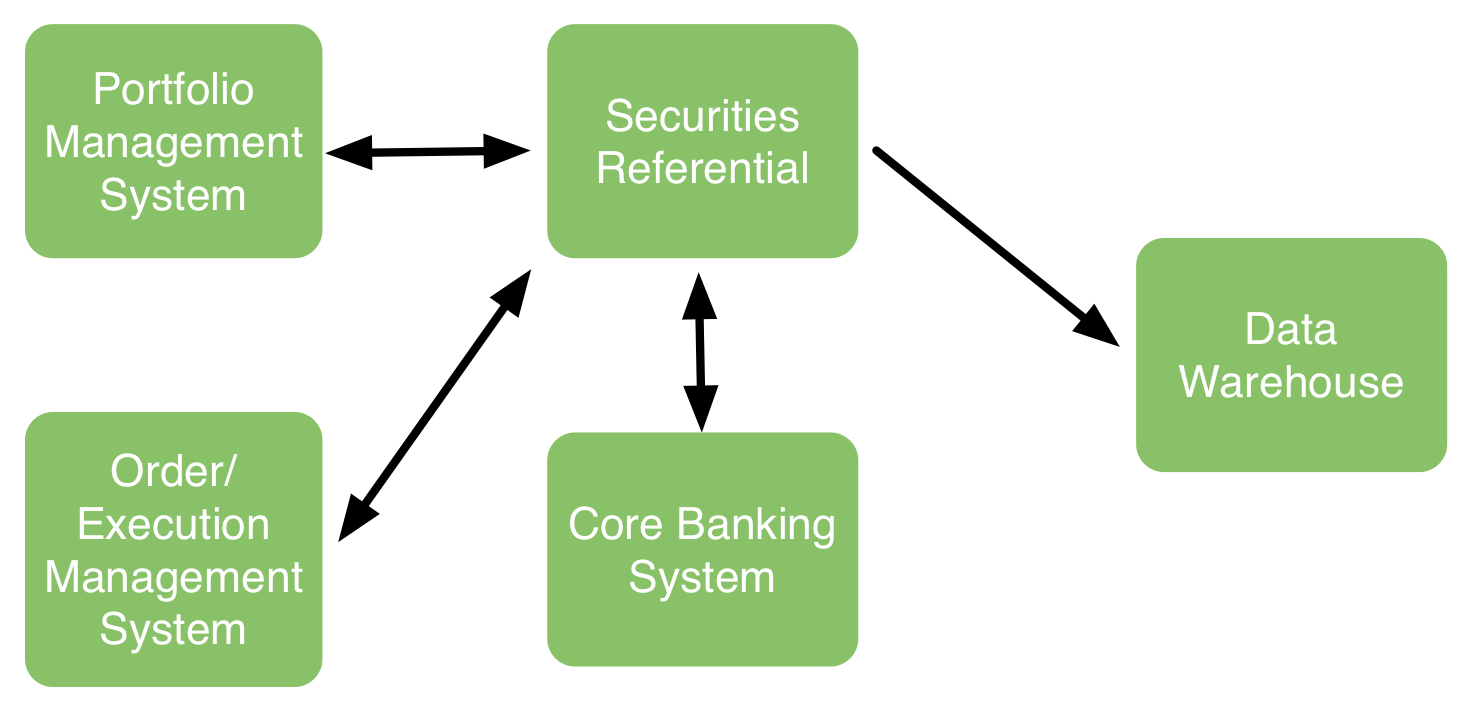
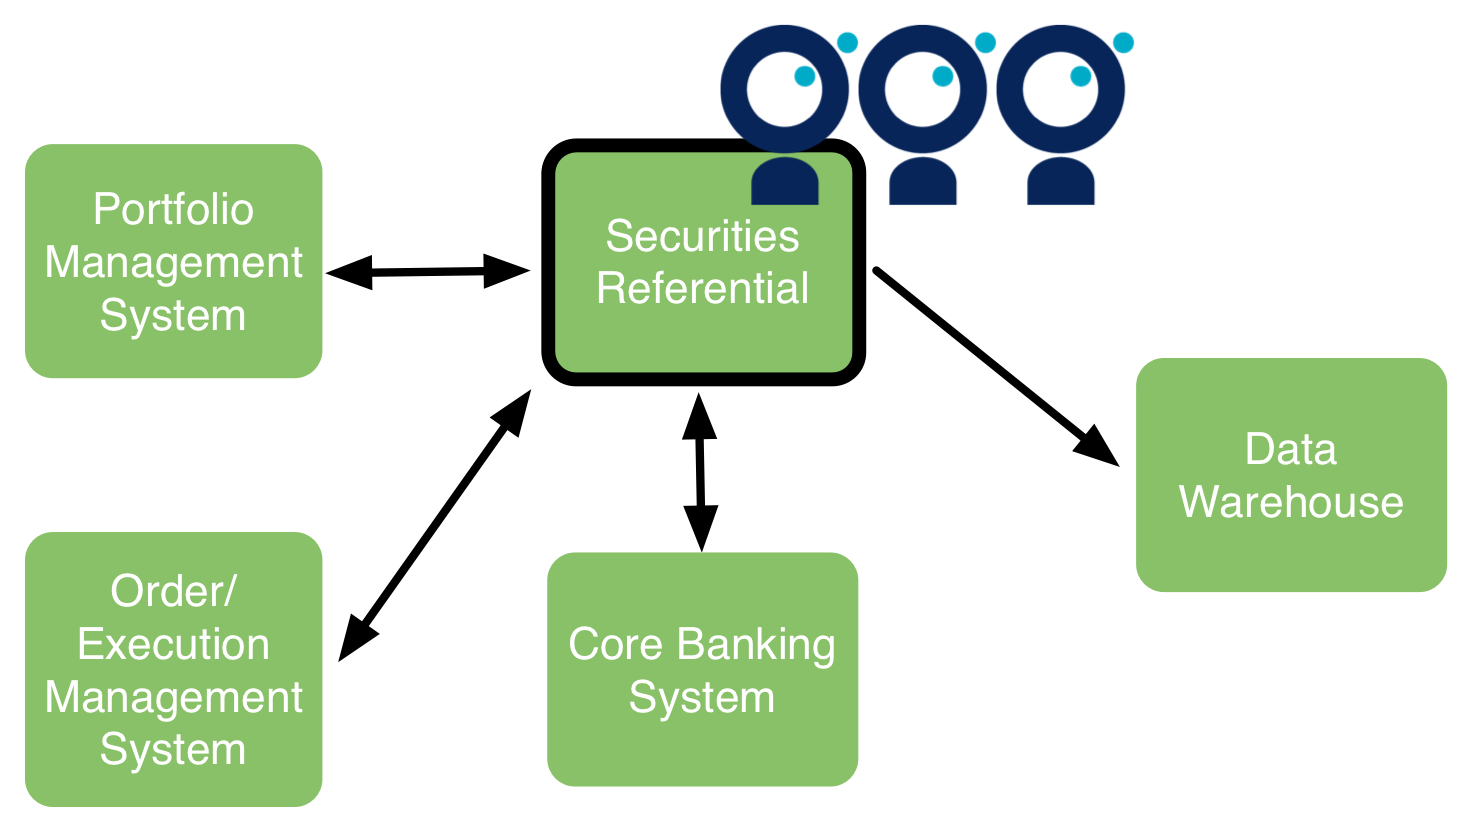
Towards v1 CPI

diff --git a/index CPI.html b/index CPI.html
@@ -31,6 +31,16 @@
 			link.href = window.location.search.match( /print-pdf/gi ) ? 'css/print/pdf.css' : 'css/print/paper.css';
 			document.getElementsByTagName( 'head' )[0].appendChild( link );
 		</script>
+		
+		<!-- override default black borders for images -->
+		<style>
+		
+			.reveal section img {
+				border: none;
+		  		box-shadow: 0 0 0 rgba(0, 0, 0, 0); 
+			}
+
+		</style>
 
 		<!--[if lt IE 9]>
 		<script src="lib/js/html5shiv.js"></script>
@@ -74,66 +84,70 @@
 				<section>
 					<h3>Il faut "cadrer" le chantier</h3>
 					<p class="fragment">Avoir une vue précise des volumes existants et cibles</p>
-					<p class="fragment">Lister problèmes existants</p>
+					<p class="fragment">Lister les problèmes existants</p>
 					<p class="fragment">Brainstormer sur les problèmes potentiels</p>
 				</section>
-				<section>
-					<div style="width: 50%; height: 100%; float: left">
-						<img src="images/fact2/vertiginous3.jpg" />
-					</div>
-						<h3>Les problèmes peuvent sembler vertigineux</h3>
-						<p class="fragment">Volume d'ordres, nombre de clients, nombre d'utilisateurs concurrents, 
-						capacité à comptabiliser avant la clôture comptable, durée de la nuit batch,
-						impact sur les temps de réponse, latence réseau etc.</p>
- 		       	</section>
 				<!-- TODO: replace paragraph instead of changing slide -->
 				<section>
 					<div style="width: 50%; height: 100%; float: left">
 						<img src="images/fact2/vertiginous3.jpg" />
 					</div>
 					<h3>Les problèmes peuvent sembler vertigineux</h3>
-					<p>Ne pas se perdre dans les détails, ne pas aborder les solutions</p>
+					<p class="fragment">Ne pas se perdre dans les détails, ne pas aborder les solutions</p>
 					<p class="fragment">Préférer l'exhaustivité à la précision</p>
 					<p class="fragment">Timeboxer !</p>
+					<aside class="notes">
+						Volume d'ordres, nombre de clients, nombre d'utilisateurs concurrents, 
+						capacité à comptabiliser avant la clôture comptable, durée de la nuit batch,
+						impact sur les temps de réponse, latence réseau etc.
+					</aside>
  		       	</section>
- 		       	<section>
-					<div style="width: 48%; height: 100%; float: left;">
-						<img src="images/fact2/application_architecture_risks.png" />
-					</div>
-					<div style="width: 48%; float: right; font-size: 0.80em;" >
-						<ol>
-							<li><strong>Capacité</strong> du HUB actuel de doubler le nombre de transactions/jour</li>
-							<li>Capacité à gérer des OST avec 15000 clients en position</li>
-							<li><strong>SLA</strong> de 5 secondes sur les actions en end-to-end</li>
-							<li>Lenteurs <strong>actuelles</strong> sur les ordres sur fonds</li>
-							<li>Ouverture de l'application à 1000 utilisateurs front-office</li>
-							<li>Doublement du <strong>nombre d'utilisateurs</strong> front-office</li>
-							<li>Impact de l'augmentation du nombre de titres sur la <strong>durée des batchs</strong></li>
-							<li><strong>Latence et temps de réponse</strong> pour les utilisateurs distants</li>							
-						</ol>
-					</div>
-				</section>
 				<section>
 					<h3>Comment y parvenir ?</h3>
 					<p class="fragment">Entretiens utilisateurs</p>
 					<p class="fragment">Entretiens IT</p>
 					<p class="fragment">Problèmes existants vs problèmes potentiels</p>
 				</section>
-				<section>
-					<h3>Et ensuite ?</h3>
-					<p class="fragment">Construire un plan</p>
-					<p class="fragment">La réponse à chaque problème pourra (devra) être complètement différente !</p>
+ 		       	<section>
+					<div style="width: 60%; float: left; margin-left:-40px; margin-top:120px; margin-right:20px;">
+						<img src="images/fact2/application_architecture_risks.png" />
+					</div>
+					<div style="width: 40%; float: right; font-size: 0.80em;" >
+						<h3>Les problèmes "usuels"</h3>
+						<ol>
+							<li><strong>Capacité</strong> en terme de nombre de transactions/jour</li>
+							<li>Augmentation de <strong>volumétrie</strong> (x2)</li>
+							<li><strong>SLA</strong> temps de réponse end-to-end</li>
+							<li>Lenteurs <strong>actuelles</strong></li>
+							<li>Augmentation du <strong>nombre d'utilisateurs</strong></li>
+							<li>Impact sur la <strong>durée des batchs</strong></li>
+							<li><strong>Latence et temps de réponse</strong> pour les utilisateurs distants</li>							
+						</ol>
+					</div>
+					<aside class="notes">
+						Capacité du HUB actuel de doubler le nombre de transactions/jour
+						Capacité à gérer des OST avec 15000 clients en position
+						SLA de 5 secondes sur les actions en end-to-end
+						Lenteurs actuelles sur les ordres sur fonds
+						Ouverture de l'application à 1000 utilisateurs front-office
+						Doublement du nombre d'utilisateurs front-office
+						Impact de l'augmentation du nombre de titres sur la durée des batchs
+						Latence et temps de réponse pour les utilisateurs distants
+					</aside>
 				</section>
 				<section>
+					<h3>Et ensuite ?</h3>
 					<h3>Construire un plan</h3>
 					<p class="fragment">La carte vous aide à visualiser et à prioriser, elle ne "résout" pas les problèmes</p>
+					<p class="fragment">La réponse à chaque problème pourra (devra) être complètement différente !</p>
 					<p class="fragment">Chaque problème reste complexe et lié au reste du SI</p>
 				</section>
 				<section>
 					<h3>Diviser pour mieux régner</h3>
-					<ul>2 patterns:
+					<p>2 patterns</p>
+					<ul>
 						<li class="fragment">Diviser/découpler : passer d'un test de N systèmes à un test de k&lt;N systèmes (idéalement 1)</li>
-						<li class="fragment">Simplifier : réduire la dimensionnalité</li>
+						<li class="fragment">Simplifier : réduire la dimensionnalité (cas de tests, données)</li>
 					</ul>
 				</section>
 				<section>
@@ -144,12 +158,20 @@
 				<section>
 					<h3>Diviser/découpler : un exemple</h3>
 					<img src="images/fact2/divide-and-conquer-2.png" />										
-					<p class="fragment">D'autres découplages sont possibles : test unitaire isolé, test unitaire mais isolé etc.</p>														
+				</section>
+				<section>
+					<h3>Diviser/découpler : généralisons !</h3>
+					<img height="500px" src="images/fact2/divide-and-conquer-3.png" />										
+				</section>
+				<!-- TODO: replace image instead of changing slide -->
+				<section>
+					<h3>Diviser/découpler : généralisons !</h3>
+					<img height="500px" src="images/fact2/divide-and-conquer-4.png" />										
 				</section>
 				<section>
 					<h3>Simplifier : des exemples</h3>
-					<p class="fragment">Ne pas mesurer tous les cas de figure (e.g. types d'opérations ou d'actifs)</p>
-					<p class="fragment">Uniquement simuler les actions principales de l'utilisateur lors d'un test de charge</p>
+					<p class="fragment">Ne pas tester tous les cas fonctionnels</p>
+					<p class="fragment">Uniquement simuler les actions principales de l'utilisateur</p>
 					<p class="fragment">Faire le test de charge avec des données existantes</p>
 					<p class="fragment">Utiliser un jeu de données restreint pour les tests</p>
 					<p class="fragment">! Attention, certaines simplifications seront fausses. Il faut penser à <strong>documenter les hypothèses</strong> faîtes !</p>					
@@ -157,33 +179,35 @@
 				<section>
 					<h3>Et maintenant ?</h3>
 					<p>Le problème est isolé et simplifié, comment je le résous ?</p>
-					<p class="fragment">Analyse de l'existant</p>
-					<p class="fragment">Modélisation et extrapolation</p>
-					<p class="fragment">Test de l'existant</p>
-					<p class="fragment">Test de la cible</p>
-					<p class="fragment"><strike>Test end-to-end intégré de la cible</strike></p>
+					<p  class="fragment">Ne prévoyez pas un test de charge pour tous les problèmes !</p>
+				</section>
+				<section>
+					<h3>Restez pragmatique !</h3>
+					<ul>
+						<li class="fragment">Analyse de l'existant</li>
+						<li class="fragment">Modélisation et extrapolation</li>
+						<li class="fragment">Test de l'existant</li>
+						<li class="fragment">Test de la cible</li>
+						<li class="fragment">Test end-to-end intégré de la cible</li>
+					</ul>
+					<img class="fragment" height="250px" src="images/fact2/arrow.png" style="float:left; margin-left:150px;"/>
+					<br/>
+					<br/>
 					<p class="fragment">! Certains problèmes devront passer par plusieurs étapes, afin de limiter le risque !</p>					
+					<p class="fragment">Ne pas sautez les étapes !</p>					
 				</section>
-				<section>
-					<h3>Analyse de l'existant : un exemple</h3>
-					<p>Temps de réponse end-to-end</p>
-				</section>
-				<section>
-					<h3>Modélisation et extrapolation : un exemple</h3>
-					<p>Capacité du système en terme de transactions</p>
-				</section>				
 				<section>
 					<h3>Où pouvez-vous vous "planter" ?</h3>
-					<p>Rappel: vous ne pourrez pas garantir à 100% la performance</p>
+					<p>Rappel : vous ne pourrez pas garantir à 100% la performance</p>
 					<div class="fragment"> 
 						<p>Vous pouvez vous planter car :</p>
 						<ul>
 							<li>un risque est passé à travers le brainstorming</li>
-							<li>une simplification (couplage, dimensionnalité) était trop "simpliste"</li>
+							<li>une simplification était trop "simpliste"</li>
 						</ul>
 					</div>
 					<div class="fragment"> 
-						<p>D'expérience mes mauvaises décisions étaient dues à :</p>					
+						<p>D'expérience, les mauvaises décisions étaient dues à :</p>					
 						<ul>
 							<li>une mauvaise connaissance de la performance existante</li>
 							<li>une mauvaise connaissance des usages existants</li>
@@ -199,7 +223,7 @@
 					<p>Les tests end-to-end sont obligatoires car certains résultats (cf. PoC) peuvent défier l'intuition</p>
 					<div class="fragment">
 						<h3 >Disclaimer</h3>
-						<p>Les tests end-to-end sont complexes, ceci ne se veut pas une méthode systémique mais un inventaire
+						<p>Les tests end-to-end sont complexes. Ceci ne se veut pas une méthode systémique mais un inventaire
 						d'outils à disposition, ainsi qu'un REX sur leur efficacité</p>
 					</div>
 				</section>				
@@ -232,28 +256,107 @@
 				</section>				
 				<section>
 					<h3>Outil #2 : Benchmark unitaire</h3>
-					<p>2 sous-classes dans cette catégorie :</p>					
-					<ol>
-						<li>réponse à une transaction unitaire</li>
-						<li>réponse à une transaction unitaire sur un large volume données</li>
-					</ul>
+					<p><em>Définition : mesure de la réponse à une transaction unitaire</em></p>
 				</section>				
 				<section>
 					<h3>Outil #2 : Benchmark unitaire</h3>
 					<p>Exemple d'analyse</p>					
 					<img height="200px" src="images/fact4/response-time.png" />
 					<div class="fragment">
-						<p>Une représentation en Flame Graph est également adaptée</p>
+						<p>Une représentation en "flame graph" est également adaptée</p>
 						<img height="150px" src="images/fact4/flame-graph.png" />
 					</div>
+				</section>		
+				<section>
+					<h3>Outil #2 : mon REX</h3>
+					<p class="fragment">La plupart des problèmes de design apparaissent en unitaire</p>
+					<p class="fragment">Faîtes-en plusieurs...</p>
+					<p class="fragment">Attention à ne pas faire de test de charge avant !</p>
+					<p class="fragment">S'il ne faut en garder qu'un, gardez celui-ci !</p>
+				</section>										
+					<aside class="notes">
+						Ex. problème GTX
+						Parallèle avec test d'un seul système
+					</aside>				
+				<section>
+					<h3>Outil #3 : le Dirac</h3>
+					<img height="400px" src="images/fact4/dirac.png" />
+					<aside class="notes">
+						Peak de N transactions
+						ou 1 transaction sur un gros volume
+					</aside>
 				</section>				
 				<section>
 					<h3>Outil #3 : le Dirac</h3>
-				</section>				
+					<p>Exemple d'analyse</p>					
+					<img height="400px" src="images/fact4/dirac-example.png" />
+				</section>
+				<section>
+					<h3>Outil #3 : mon REX</h3>
+					<p class="fragment">Le complément parfait du test unitaire</p>
+					<p class="fragment">Plus simple à analyser qu'une journée de production</p>
+					<p class="fragment">Teste également la robustesse du système</p>
+					<p class="fragment">Greffez-vous sur les tests fonctionnels !</p>
+				</section>										
 				<section>
 					<h3>Outil #4 : "rejeu" d'une journée de production</h3>
+					<img height="500px" src="images/fact4/replay-production.png" />
+					<p style="position: absolute; top:450px; left: 200px; height:50px; width:600px; font-size:1.5em; color:blue;" class="fragment">simplifiée bien sûr !</p>
 				</section>				
-
+				<section>
+					<h3>Outil #4 : mon REX</h3>
+					<p class="fragment">Difficile à analyser, notamment les écarts</p>
+					<p class="fragment">Difficile à interpréter</p>
+					<p class="fragment">En dernier, en impliquant le support métier</p>
+				</section>
+				<section>
+					<h3>Outil #1 et #4 : retour aux bases</h3>
+					<p class="fragment">La décomposition en unitaire et Dirac simplifie grandement l'analyse</p>
+				</section>				
+				<section>
+					<h3>Outil #5 : mettre en production</h3>
+					<p class="fragment">Tout ce qui peut être mis en production par avance doit l'être</p>
+					<p class="fragment">Pensez votre stratégie de migration pour monter en charge progressivement</p>
+					<p class="fragment">Inspirez vous des Géants du Web (feature flipping, dark launch, canary)</p>
+				</section>
+				<section>
+					<h3>Que faut-il mesurer ?</h3>
+					<!-- TODO -->
+					<p class="fragment">Temps entrée / sortie de chaque système</p>
+					<p class="fragment">NMON (incl. TOP)</p>
+					<p class="fragment">à complèter si nécessaire...</p>
+				</section>
+				<section>
+					<h3>Que faut-il analyser ?</h3>
+					<!-- TODO -->
+					<img />
+					<p>Throughput, temps de réponse/charge</p>
+					<aside class="notes">
+						Analyse auto
+						Sur HW juste sanity check (TOP, CPU, RAM)
+					</aside>
+				</section>
+				<section>
+					<h3>Quel outillage ?</h3>
+					<!-- TODO -->
+					<p class="fragment">Python, Pandas, Sikuli???</p>
+				</section>
+				<section>
+					<h3>Peut-on extrapoler (à la production) ?</h3>
+					<p class="fragment">Beaucoup d'extrapolations différentes possibles</p>
+					<p class="fragment">Environnement, concurrence, simplifications...</p>
+					<p class="fragment">Mon expérience : OUI (sauf le sizing machine)</p>
+					<p class="fragment">mais attention de rester "linéaire" dans vos tests !</p>					
+				</section>
+				<section>
+					<h3>Où pouvez-vous vous "planter" ?</h3>
+					<p>Rappel : vous ne pourrez pas garantir à 100% la performance</p>
+					<ul>
+						<li class="fragment">si vous ne faîtes pas assez d'unitaire</li>
+						<li class="fragment">si votre approche n'est pas assez "data-driven"</li>
+						<li class="fragment">si vous n'avez pas assez simplifié / découplé</li>
+					</ul>
+				</section>
 			</div>
 
 		</div>
